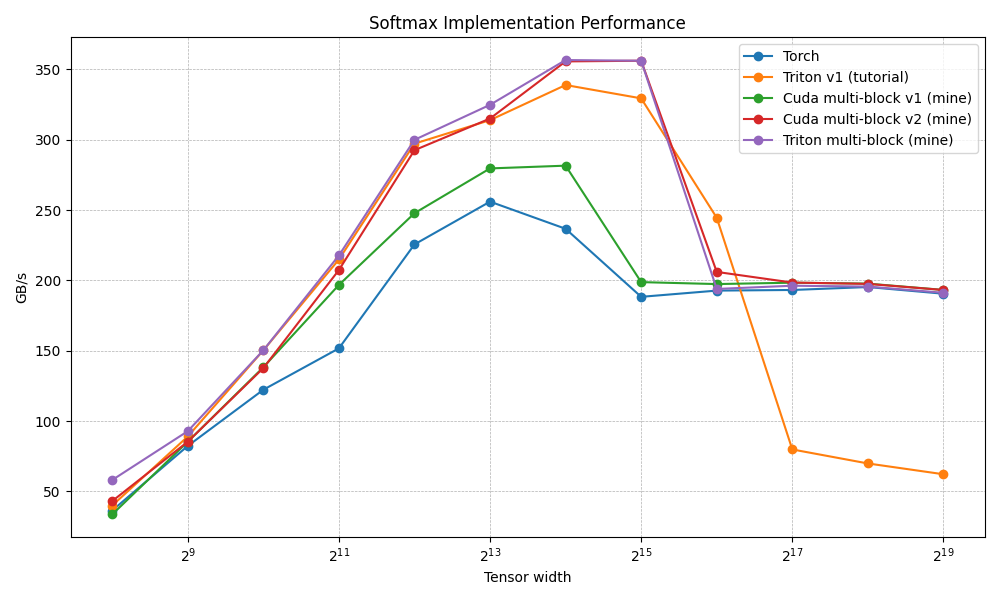
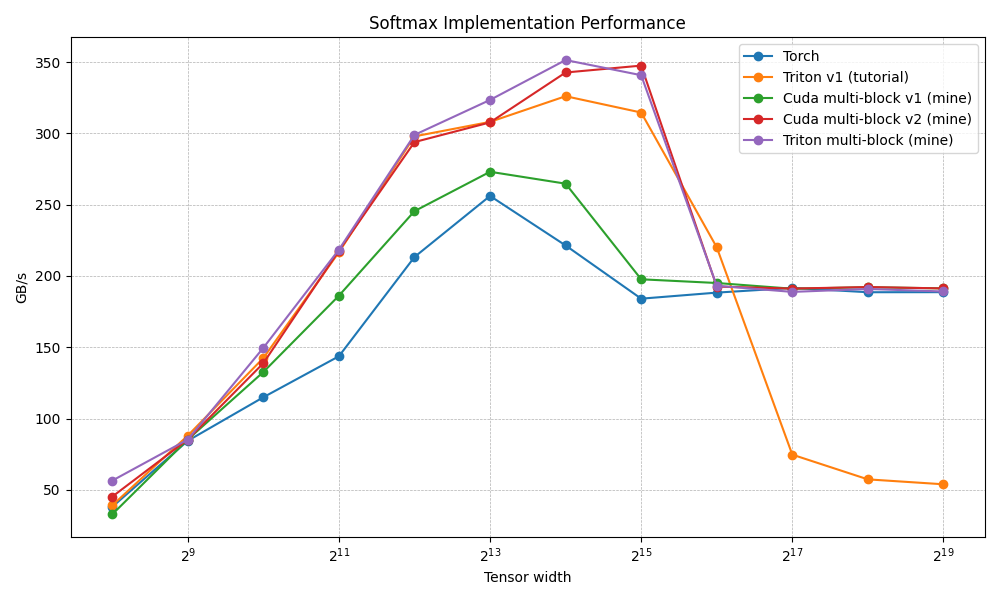
Update triton example and add online softmax implementation

diff --git a/triton_kernels/article3.py b/triton_kernels/article3.py
@@ -2,6 +2,7 @@ import triton
 import triton.language as tl
 import torch
 
+from .article1 import kernel_fused_softmax_baseline
 from .utils import calculate_settings, compute_row_ptrs, get_row
 
 
@@ -32,54 +33,9 @@ def online_softmax_divisor_update(a, b):
     div_out = div_a * tl.exp(max_a - max_out) + div_b * tl.exp(max_b - max_out)
     return bitcast_merge(max_out, div_out)
 
-@triton.jit
-def kernel_online_softmax(
-    x_ptr, x_row_stride: int,
-    out_ptr, out_row_stride: int,
-    n_rows: int, n_cols: int,
-    block_size: tl.constexpr,
-):
-    # might handle multiple rows if the number of rows is high
-    pid = tl.program_id(0)  # starting row for the given program
-    row_step = tl.num_programs(0)  # rows to skip before the next one to process
-    
-    for row_idx in tl.range(pid, n_rows, step=row_step, num_stages=2):
-        col_offsets = tl.arange(0, block_size)  # block_size is always greater than n_cols
-        mask = col_offsets < n_cols # mask for boundary check
-
-        x_row_ptrs = compute_row_ptrs(x_ptr, x_row_stride, row_idx, col_offsets)
-        row = tl.load(x_row_ptrs, mask=mask, other=float("-inf"))
-        initial_div = tl.full((block_size,), 1.0, dtype=tl.float32)
-        
-        vf = bitcast_merge(row, initial_div)
-        z  = tl.reduce(vf, 0, online_softmax_divisor_update)
-        max, divisor = bitcast_unmerge(z)
-
-        res = tl.exp(row - max)/divisor
-        out_row_ptrs = compute_row_ptrs(out_ptr, out_row_stride, row_idx, col_offsets)
-        tl.store(out_row_ptrs, res, mask=mask)
-    
-
-def triton_online_softmax(x: torch.Tensor) -> torch.Tensor:
-    out = torch.empty_like(x)
-    assert x.is_cuda and x.ndim == 2 and x.is_contiguous()
-
-    n_rows, n_cols = x.shape
-    _, num_warps = calculate_settings(n_cols)
-    block_size = triton.next_power_of_2(n_cols)
-
-    kernel_online_softmax[(n_rows,)](
-        x, x.stride(0),
-        out, out.stride(0),
-        n_rows, n_cols,
-        block_size=block_size,
-        num_warps=num_warps,
-    )
-    
-    return out
 
 @triton.jit
-def kernel_online_softmax_v2(
+def kernel_online_softmax_merge(
     x_ptr, x_row_stride: int,
     out_ptr, out_row_stride: int,
     n_rows: int, n_cols: tl.constexpr,
@@ -103,29 +59,91 @@ def kernel_online_softmax_v2(
             incoming_state  = tl.reduce(row_states, 0, online_softmax_divisor_update)
             current_state = online_softmax_divisor_update(current_state, incoming_state)
         
-        max, divisor = bitcast_unmerge(current_state)
+        maximum, divisor = bitcast_unmerge(current_state)
 
         for col_idx in tl.range(0, n_cols, step=block_size, loop_unroll_factor=0):
             row = get_row(x_ptr, row_idx, x_row_stride, col_idx, col_offsets, n_cols, other=init_max)
-            result = tl.exp(row - max) / divisor
+            result = tl.exp(row - maximum) / divisor
 
             out_row_ptrs = compute_row_ptrs(out_ptr + col_idx, out_row_stride, row_idx, col_offsets)
             tl.store(out_row_ptrs, result, mask=(col_idx + col_offsets) < n_cols, cache_modifier=".cs")
     
 
-def triton_online_softmax_v2(x: torch.Tensor) -> torch.Tensor:
+def triton_online_softmax(x: torch.Tensor) -> torch.Tensor:
     out = torch.empty_like(x)
     assert x.is_cuda and x.ndim == 2 and x.is_contiguous()
 
     n_rows, n_cols = x.shape
     block_size, num_warps = calculate_settings(n_cols)
 
-    kernel_online_softmax_v2[(n_rows,)](
+    kernel_online_softmax_merge[(n_rows,)](
         x, x.stride(0),
         out, out.stride(0),
         n_rows, n_cols=n_cols,
         block_size=block_size,
         num_warps=num_warps,
     )
+    
+    return out
+
+
+@triton.jit
+def kernel_online_softmax_hybrid(
+    x_ptr, x_row_stride: int,
+    out_ptr, out_row_stride: int,
+    n_rows: int, n_cols: int,
+    block_size: tl.constexpr,
+):
+    """Inspired by [Liger kernels](https://github.com/linkedin/Liger-Kernel/blob/main/src/liger_kernel/ops/softmax.py)"""
+    
+    pid = tl.program_id(0)
+    row_step = tl.num_programs(0)
+    col_offsets = tl.arange(0, block_size)
+
+    init_max = float("-inf")
+
+    for row_idx in tl.range(pid, n_rows, step=row_step, num_stages=2):
+        
+        maximum = init_max
+        divisor = 1.0
+        for col_idx in tl.range(0, n_cols, step=block_size):
+            row = get_row(x_ptr, row_idx, x_row_stride, col_idx, col_offsets, n_cols, other=init_max)
+            row_max = max(row_max, tl.max(row, axis=0))
+            new_max = tl.maximum(maximum, row_max)
+
+            divisor = divisor * tl.exp(maximum - new_max) + tl.sum(tl.exp(row - new_max), axis=0)
+            maximum = new_max
+
+        for col_idx in tl.range(0, n_cols, step=block_size):
+            row = get_row(x_ptr, row_idx, x_row_stride, col_idx, col_offsets, n_cols, other=init_max)
+            result = tl.exp(row - maximum) / divisor
+
+            out_row_ptrs = compute_row_ptrs(out_ptr + col_idx, out_row_stride, row_idx, col_offsets)
+            tl.store(out_row_ptrs, result, mask=(col_idx + col_offsets) < n_cols, cache_modifier=".cs")
+    
+
+def triton_online_softmax_hybrid(x: torch.Tensor) -> torch.Tensor:
+    out = torch.empty_like(x)
+    assert x.is_cuda and x.ndim == 2 and x.is_contiguous()
+
+    n_rows, n_cols = x.shape
+    block_size, num_warps = calculate_settings(n_cols)
+
+    if n_cols <= block_size:
+        kernel_fused_softmax_baseline[(n_rows,)](
+            x, x.stride(0),
+            out, out.stride(0),
+            n_rows, n_cols,
+            block_size=block_size,
+            num_warps=num_warps
+        )
+    else:
+        kernel_online_softmax_merge[(n_rows,)](
+            x, x.stride(0),
+            out, out.stride(0),
+            n_rows, n_cols=n_cols,
+            block_size=block_size,
+            num_warps=num_warps,
+        )
     
     return out

diff --git a/triton_kernels/article2.py b/triton_kernels/article2.py
@@ -2,6 +2,7 @@ import triton
 import triton.language as tl
 import torch
 
+from .article1 import kernel_fused_softmax_baseline
 from .utils import calculate_settings, compute_row_ptrs, get_row
 
 
@@ -9,7 +10,7 @@ from .utils import calculate_settings, compute_row_ptrs, get_row
 def kernel_softmax_adapt_blocksize(
     x_ptr, x_row_stride: int,
     out_ptr, out_row_stride: int,
-    n_rows: int, n_cols: tl.constexpr,
+    n_rows: int, n_cols,
     block_size: tl.constexpr,
 ):
     # might handle multiple rows if the number of rows is high
@@ -21,16 +22,16 @@ def kernel_softmax_adapt_blocksize(
     
     for row_idx in tl.range(pid, n_rows, step=row_step, num_stages=2):
         row_max = init_max
-        for col_idx in tl.range(0, n_cols, step=block_size, loop_unroll_factor=0):
+        for col_idx in tl.range(0, n_cols, step=block_size):
             row = get_row(x_ptr, row_idx, x_row_stride, col_idx, col_offsets, n_cols, other=init_max)
             row_max = max(row_max, tl.max(row, axis=0))
 
         exp_sum = 0.
-        for col_idx in tl.range(0, n_cols, step=block_size, loop_unroll_factor=0):
+        for col_idx in tl.range(0, n_cols, step=block_size):
             row = get_row(x_ptr, row_idx, x_row_stride, col_idx, col_offsets, n_cols, other=init_max)
             exp_sum += tl.sum(tl.exp(row - row_max), axis=0)
         
-        for col_idx in tl.range(0, n_cols, step=block_size, loop_unroll_factor=0):
+        for col_idx in tl.range(0, n_cols, step=block_size):
             row = get_row(x_ptr, row_idx, x_row_stride, col_idx, col_offsets, n_cols, other=init_max)
             result = tl.exp(row - row_max) / exp_sum
 
@@ -45,12 +46,21 @@ def triton_softmax_v2(x: torch.Tensor) -> torch.Tensor:
     n_rows, n_cols = x.shape
     block_size, num_warps = calculate_settings(n_cols)
 
-    kernel_softmax_adapt_blocksize[(n_rows,)](
-        x, x.stride(0),
-        out, out.stride(0),
-        n_rows, n_cols,
-        block_size=block_size,
-        num_warps=num_warps
-    )
+    if n_cols <= block_size:
+        kernel_fused_softmax_baseline[(n_rows,)](
+            x, x.stride(0),
+            out, out.stride(0),
+            n_rows, n_cols,
+            block_size=block_size,
+            num_warps=num_warps
+        )
+    else:
+        kernel_softmax_adapt_blocksize[(n_rows,)](
+            x, x.stride(0),
+            out, out.stride(0),
+            n_rows, n_cols,
+            block_size=block_size,
+            num_warps=num_warps
+        )
  
     return out

diff --git a/benchmark.py b/benchmark.py
@@ -6,11 +6,12 @@ import matplotlib.pyplot as plt
 import cuda_softmax_kernel
 from triton_kernels.article1 import triton_fused_softmax
 from triton_kernels.article2 import triton_softmax_v2
+from triton_kernels.article3 import triton_online_softmax, triton_online_softmax_hybrid
 
 configs = [
     triton.testing.Benchmark(
             x_names=["N"],
-            x_vals=[2 ** i for i in range(8, 20)],
+            x_vals=[2 ** i for i in range(10, 22)],
             line_arg="provider",
             line_vals=[
                 "torch",
@@ -18,6 +19,9 @@ configs = [
                 "cuda_multi_block_v1",
                 "cuda_multi_block_v2",
                 "triton_multi_block",
+                "cuda_online_v1",
+                "triton_online",
+                "triton_online_hybrid"
             ],
             line_names=[
                 "Torch",
@@ -25,6 +29,9 @@ configs = [
                 "Cuda multi-block v1 (mine)",
                 "Cuda multi-block v2 (mine)",
                 "Triton multi-block (mine)",
+                "Cuda online v1 (mine)",
+                "Triton online (mine)",
+                "Triton online hybrid (Liger Kernel)"
             ],
             ylabel="TFLOPS",
             plot_name="softmax-performance",
@@ -56,6 +63,12 @@ def benchmark(N: int, provider: str, quantiles: list[float] = [0.5, 0.2, 0.8]):
             return lambda: cuda_softmax_kernel.softmax_cuda_multi_block_v2(x)
         elif provider == "triton_multi_block":
             return lambda: triton_softmax_v2(x)
+        elif provider == "cuda_online_v1":
+            return lambda: cuda_softmax_kernel.softmax_cuda_online_v1(x)
+        elif provider == "triton_online":
+            return lambda: triton_online_softmax(x)
+        elif provider == "triton_online_hybrid":
+            return lambda: triton_online_softmax_hybrid(x)
         else:
             raise KeyError(f"Unknown provider {provider!r}.")
     

diff --git a/assertions.py b/assertions.py
@@ -3,22 +3,23 @@ import torch
 import cuda_softmax_kernel
 from triton_kernels.article1 import triton_fused_softmax
 from triton_kernels.article2 import triton_softmax_v2
+from triton_kernels.article3 import triton_online_softmax, triton_online_softmax_hybrid
 
 # Article 1
 
-# x = torch.randn(128, 2**12, device='cuda')
-# expected_result = torch.softmax(x, dim=-1)
+x = torch.randn(128, 2**12, device='cuda')
+expected_result = torch.softmax(x, dim=-1)
 
-# triton_result = triton_fused_softmax(x)
-# assert torch.allclose(triton_result, expected_result)
+triton_result = triton_fused_softmax(x)
+assert torch.allclose(triton_result, expected_result)
 
-# # Our implementation is only valid for matrix of width <= 2**12
-# cuda_result = cuda_softmax_kernel.softmax_cuda_v1(x)
-# assert torch.allclose(cuda_result, expected_result)
+# Our implementation is only valid for matrix of width <= 2**12
+cuda_result = cuda_softmax_kernel.softmax_cuda_v1(x)
+assert torch.allclose(cuda_result, expected_result)
 
 # Article 2
 
-x = torch.randn(128, 2**13, device='cuda')
+x = torch.randn(128, 2**16, device='cuda')
 expected_result = torch.softmax(x, dim=-1)
 
 triton_result = triton_softmax_v2(x)
@@ -29,3 +30,17 @@ assert torch.allclose(cuda_result, expected_result)
 
 cuda_result2 = cuda_softmax_kernel.softmax_cuda_multi_block_v2(x)
 assert torch.allclose(cuda_result2, expected_result)
+
+# Article 3
+
+x = torch.randn(128, 2**18, device='cuda')
+expected_result = torch.softmax(x, dim=-1)
+
+triton_result = triton_online_softmax(x)
+assert torch.allclose(triton_result, expected_result)
+
+triton_result = triton_online_softmax_hybrid(x)
+assert torch.allclose(triton_result, expected_result)
+
+cuda_result = cuda_softmax_kernel.softmax_cuda_online_v1(x)
+assert torch.allclose(cuda_result, expected_result)

diff --git a/cuda_kernels/binding.cpp b/cuda_kernels/binding.cpp
@@ -3,6 +3,7 @@
 torch::Tensor softmax_cuda_v1(torch::Tensor x);
 torch::Tensor softmax_cuda_multi_block_v1(torch::Tensor x);
 torch::Tensor softmax_cuda_multi_block_v2(torch::Tensor x);
+torch::Tensor softmax_cuda_online_v1(torch::Tensor x);
 
 
 PYBIND11_MODULE(TORCH_EXTENSION_NAME, m)
@@ -10,4 +11,5 @@ PYBIND11_MODULE(TORCH_EXTENSION_NAME, m)
   m.def("softmax_cuda_v1", &softmax_cuda_v1, "Softmax (CUDA)");
   m.def("softmax_cuda_multi_block_v1", &softmax_cuda_multi_block_v1, "Softmax (CUDA)");
   m.def("softmax_cuda_multi_block_v2", &softmax_cuda_multi_block_v2, "Softmax (CUDA)");
+  m.def("softmax_cuda_online_v1", &softmax_cuda_online_v1, "Softmax (CUDA)");
 }

diff --git a/triton_kernels/article1.py b/triton_kernels/article1.py
@@ -21,7 +21,7 @@ def compute_row_ptrs(tensor_ptr, row_stride, row_index, col_offsets):
     return row_ptr + col_offsets
 
 @triton.jit
-def kernel_fused_softmax(
+def kernel_fused_softmax_baseline(
     x_ptr, x_row_stride: int,
     out_ptr, out_row_stride: int,
     n_rows: int, n_cols: int,
@@ -61,7 +61,7 @@ def triton_fused_softmax(x: torch.Tensor) -> torch.Tensor:
         num_warps = 16
 
     # pre-compile kernel to get register usage and compute thread occupancy.
-    kernel = kernel_fused_softmax.warmup(
+    kernel = kernel_fused_softmax_baseline.warmup(
         x, x.stride(0),
         out, out.stride(0),
         n_rows, n_cols,

diff --git a/cuda_kernels/setup.py b/cuda_kernels/setup.py
@@ -1,7 +1,7 @@
 from setuptools import setup
 from torch.utils.cpp_extension import BuildExtension, CUDAExtension
 
-__version__ = "0.2.1"
+__version__ = "0.3.0"
 
 # Define the C++ extension modules
 ext_modules = [
@@ -11,6 +11,7 @@ ext_modules = [
             'binding.cpp',
             'kernel_article1.cu',
             'kernel_article2.cu',
+            'kernel_article3.cu',
         ],
         extra_compile_args={
             'cxx': [
